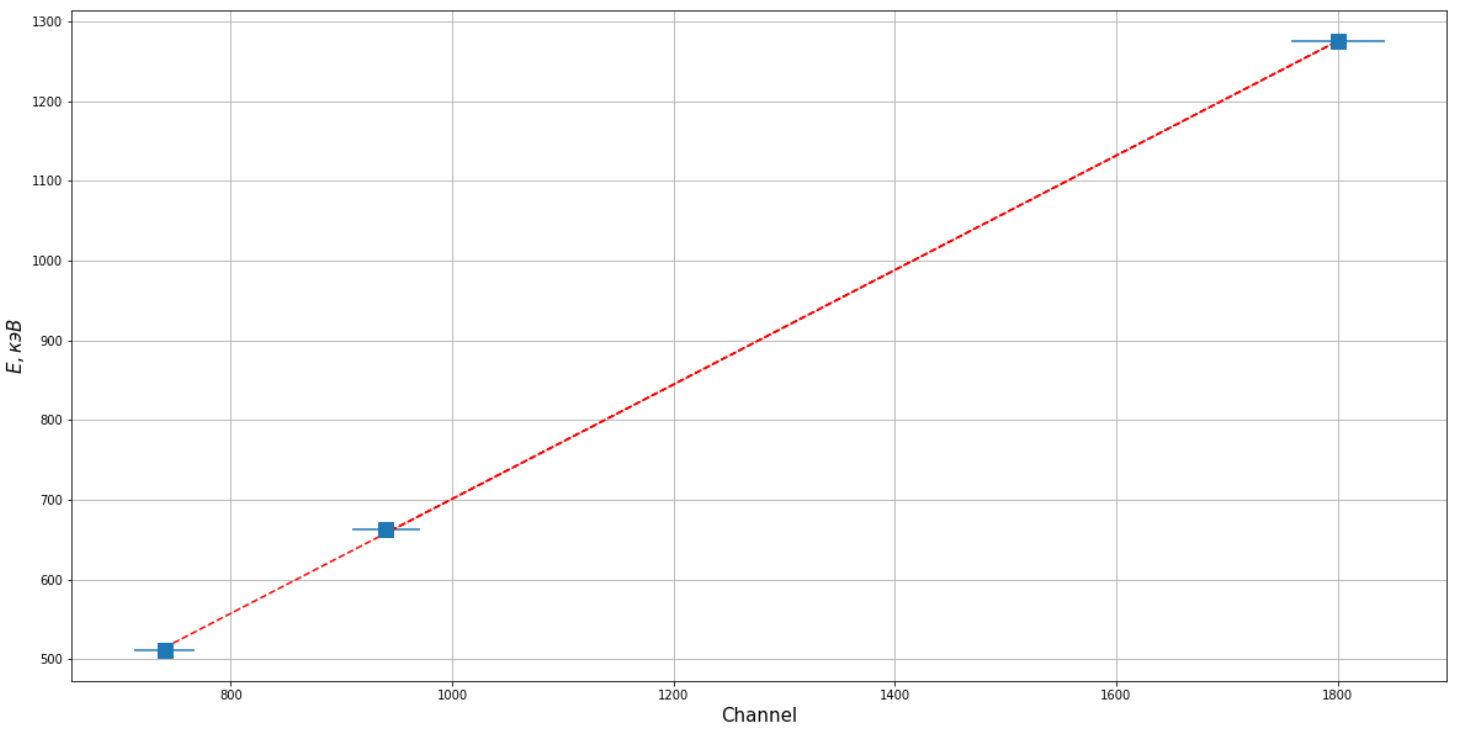
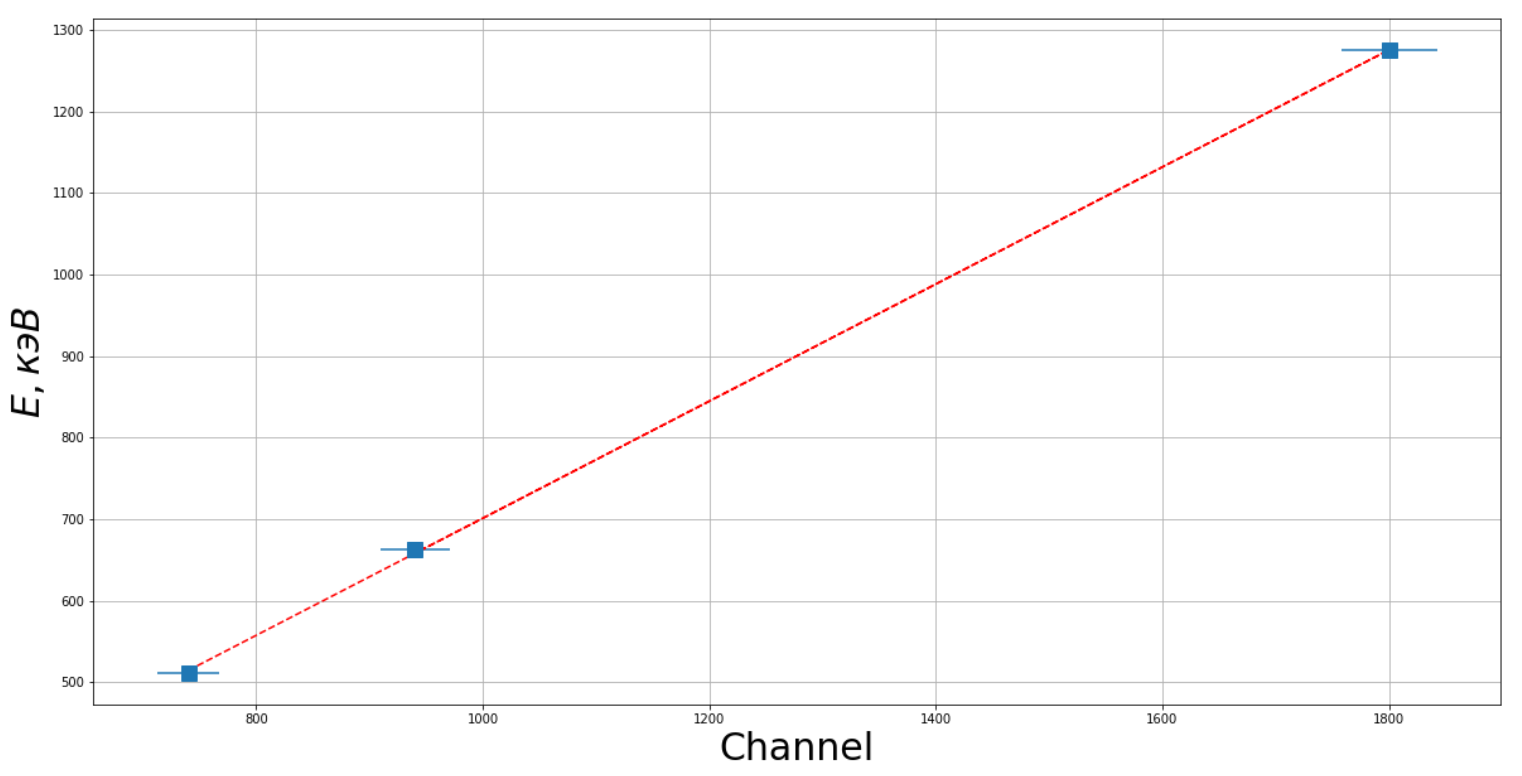
[5.5] Final - Refactored pics - Added conclusion

diff --git a/5.5/main.tex b/5.5/main.tex
@@ -17,7 +17,7 @@
 %\fancyhf{}
 \renewcommand{\footrulewidth}{ .0em }
 \fancyfoot[C]{\texttt{\textemdash~\thepage~\textemdash}}
-\fancyhead[L]{Работа 1.3 \hfil}
+\fancyhead[L]{Работа 5.5 \hfil}
 \fancyhead[R]{\hfil SOMEBEODY, группа Б01-909}
 
 \pagestyle{fancy}
